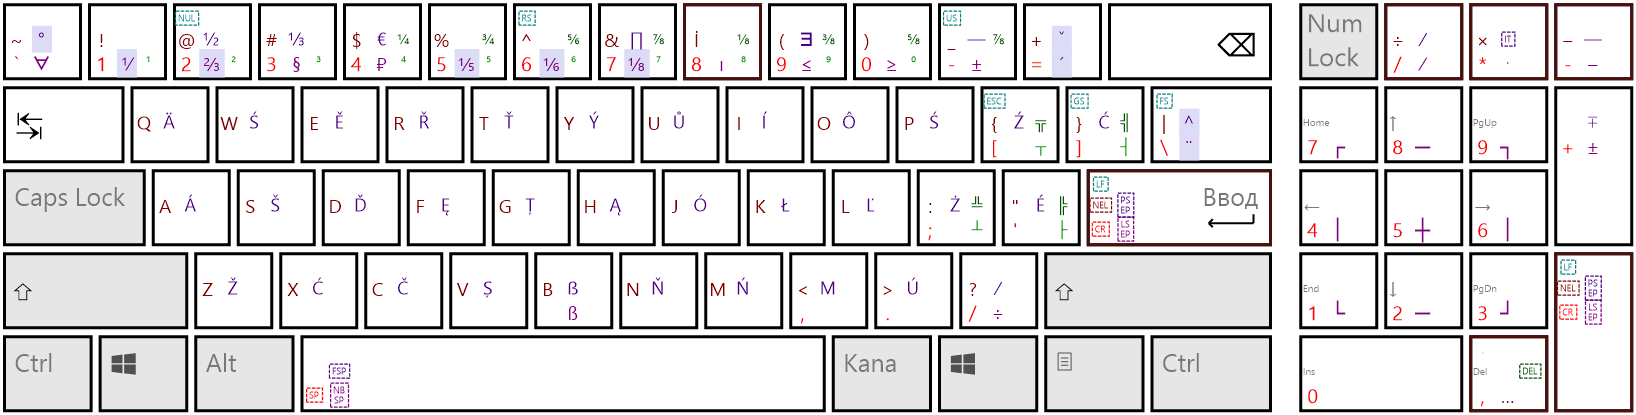
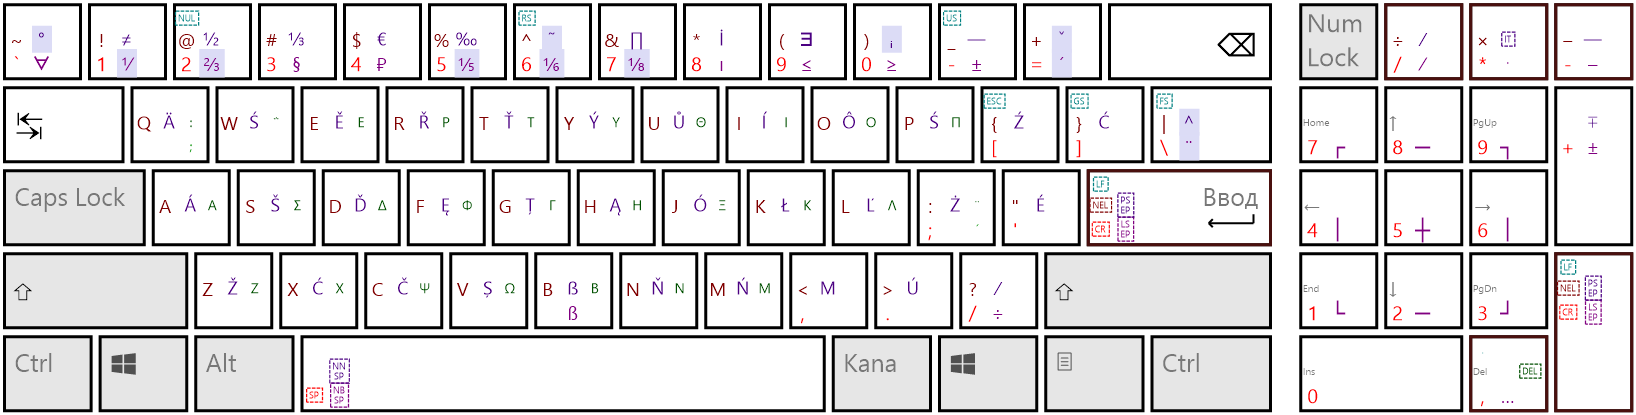
KbdLat: 3.1

diff --git a/README.md b/README.md
@@ -109,12 +109,43 @@ AltGr + цифры цифрового блока — стрѣлки ↖ ↑ ↗ 
 | a→á | s→š | d→ď | f→ę | g→ț | h→ą | j→ó | k→ł | l→ľ | ;→ż | '→é | |
 | z→ž | x→ć | c→č | v→ș | b→ß/ẞ | n→ň | m→ń | ,→μ | .→ú | /→÷ | | |
 
-Верхній рядъ съ AltGr: `` ` ``→∀, 3→§, 4→₽ (Shift €), 8→ı (Shift İ), 9→≤ (Shift ∃), 0→≥, -→± (Shift —);
-мёртвыя: `` AltGr+Shift+` `` °, `=` ´ (Shift ˇ), `\` ¨ (Shift ^), `<>`-клавиша ˝ (Shift),
-дроби: 1 ⅟, 2 ⅔, 5 ⅕, 6 ⅙, 7 ⅛ — напримѣръ, ⅟ затѣмъ 2 → ½, ⅙ затѣмъ 5 → ⅚.
+Верхній рядъ съ AltGr (Shift — въ скобкахъ; † — мёртвая клавиша):
 
-CapsLock на цифрахъ даётъ надстрочные ¹²³⁴…⁰, CapsLock+Shift — дроби ½ ⅓ ¼ ¾ ⅚ ⅞ ⅛ ⅜ ⅝;
-на `[ ] ; '` — линіи ┬ ┤ ┴ ├ (Shift — двойныя).
+| Клавиша | AltGr | AltGr+Shift |
+|---|---|---|
+| `` ` `` | ∀ | † ° (надстрочные) |
+| 1 | † ⅟ | ≠ |
+| 2 | † ⅔ | ½ |
+| 3 | § | ⅓ |
+| 4 | ₽ | € |
+| 5 | † ⅕ | ‰ |
+| 6 | † ⅙ | † ˜ (тильда) |
+| 7 | † ⅛ | ∏ |
+| 8 | ı | İ |
+| 9 | ≤ | ∃ |
+| 0 | ≥ | † ᵢ (подстрочные) |
+| - | ± | — |
+| = | † ´ | † ˇ |
+| `\` | † ¨ | † ^ |
+
+`<>`-клавиша даётъ ˝ (мёртвая, съ Shift).
+
+**CapsLock переключаетъ буквы на греческую раскладку** (по звучанію: a→α, b→β, g→γ, d→δ, e→ε, z→ζ, h→η, u→θ,
+i→ι, k→κ, l→λ, m→μ, n→ν, j→ξ, o→ο, p→π, r→ρ, s→σ, w→ς, t→τ, y→υ, f→φ, x→χ, c→ψ, v→ω; Shift — прописныя).
+Цифры при этомъ остаются цифрами. На `;` — мёртвыя ´ (tonos) и ¨ (Shift), на AltGr — ΅ (dialytika tonos):
+ά έ ή ί ό ύ ώ, ϊ ϋ, ΐ ΰ. Ту же ΅ даётъ Shift+W въ режимѣ CapsLock.
+
+Мёртвыя клавиши:
+
+- **⅟ ⅔ ⅕ ⅙ ⅛** — дроби: ⅟ затѣмъ 2 → ½, ⅙ затѣмъ 5 → ⅚, ⅙ затѣмъ 2 → ½, 3 → ⅓;
+- **°** — надстрочные: цифры, `+ - = ( )`, латинскія и часть греческихъ буквъ, н→ᵸ, ъ→ꚜ, ь→ꚝ, ә→ᵊ;
+  а также å ů ẘ ẙ;
+- **ᵢ** — подстрочные: ₀…₉ ₊ ₋ ₌ ₍ ₎ ₐ ₑ ₕ ᵢ ⱼ ₖ ₗ ₘ ₙ ₒ ₚ ᵣ ₛ ₜ ᵤ ᵥ ₓ ᵦ ᵧ ᵨ ᵩ ᵪ;
+- **˜** — ã ẽ ĩ ñ õ ũ ṽ ỹ;
+- **´ ˇ ^ ¨** — á ć é ǵ ḱ ĺ ḿ ń ó ṕ ŕ ś ú ẃ ý ź; ǎ č ď ě ǧ ȟ ǐ ǩ ľ ň ř š ť ǒ ǔ ž; â ĉ ê ĝ ĥ î ĵ ô ŝ û ŵ ŷ ẑ;
+  ä ë ḧ ï ö ẗ ü ẅ ẍ ÿ.
+
+Цифровой блокъ съ AltGr даётъ линіи └ ─ ┘ │ ┼ │ ┌ ─ ┐.
 
 ## Сборка
 
